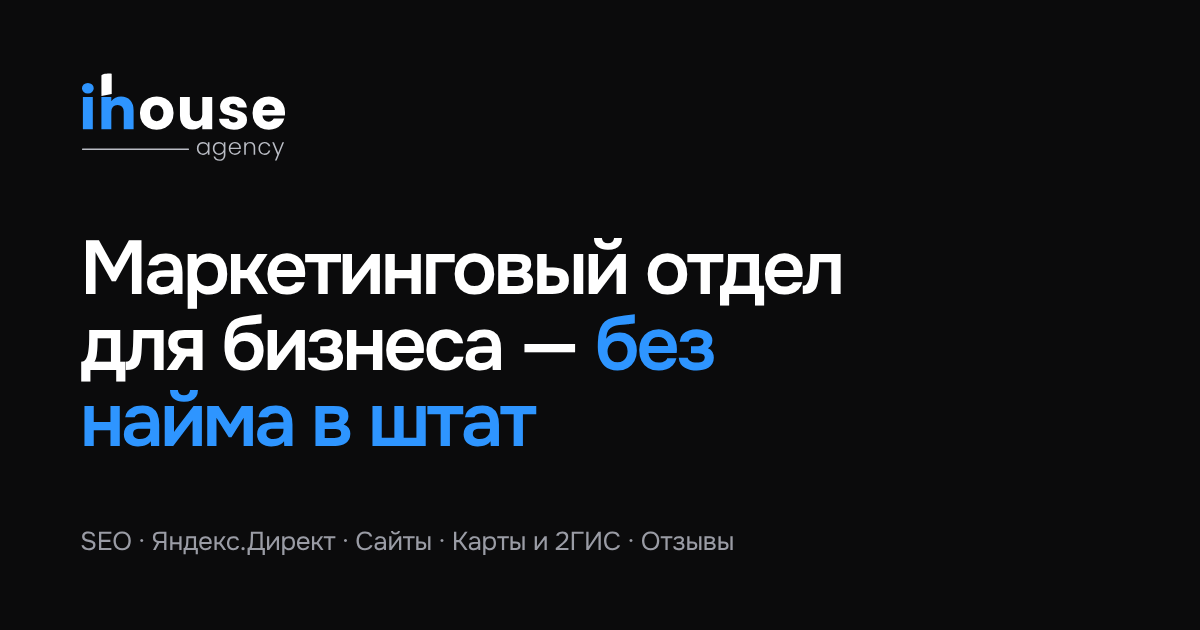
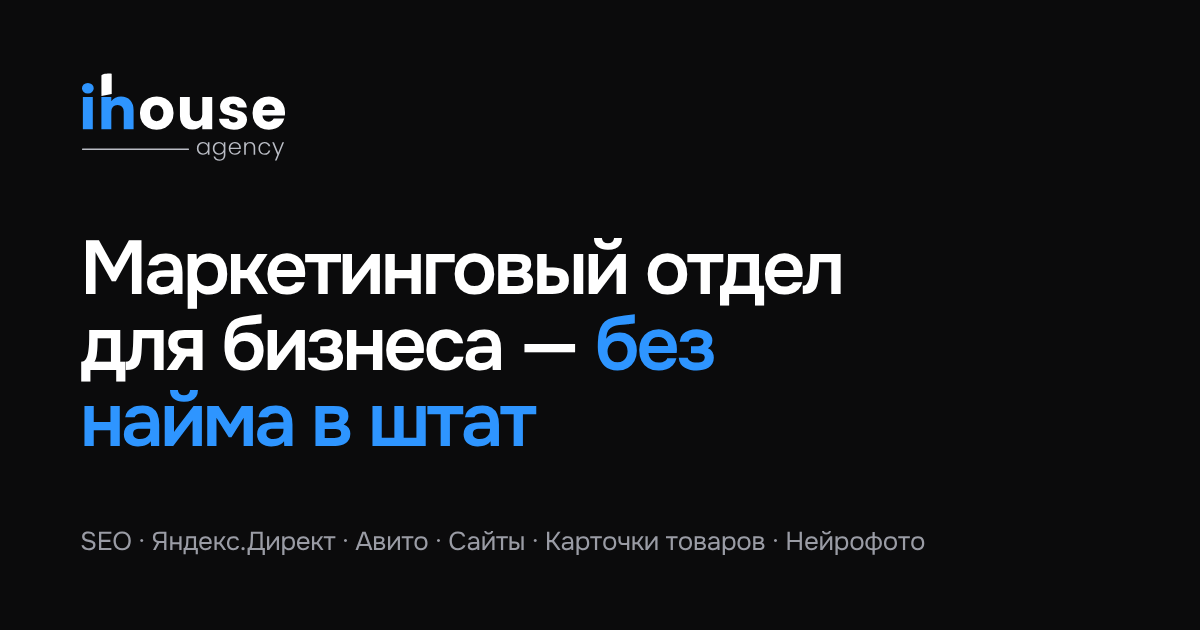
Новые услуги: ведение Авито, нейрофотосессии и карточки для маркетплейсов
Два блока в «Услугах», два вопроса в FAQ, пункты в бегущей строке,
форме, форматах и подвале; обновлены title, description, JSON-LD и OG.

Claude-Session: https://claude.ai/code/session_01WQKR9du931HH478xemhD7M

Changed region(s): [[0.2775, 0.8444, 0.7708, 0.8746]]

diff --git a/index.html b/index.html
@@ -3,15 +3,15 @@
 <head>
 <meta charset="utf-8">
 <meta name="viewport" content="width=device-width, initial-scale=1, viewport-fit=cover">
-<title>inhouse agency — продвижение бизнеса: SEO, Яндекс.Директ, сайты | Набережные Челны</title>
-<meta name="description" content="Маркетинговый отдел для вашего бизнеса без найма в штат: SEO в Яндексе и Google, Яндекс.Директ, сайты на Tilda и на коде, Яндекс.Карты и 2ГИС, таргет ВКонтакте, работа с отзывами. Набережные Челны и вся Россия.">
+<title>inhouse agency — SEO, Яндекс.Директ, Авито и сайты | Набережные Челны</title>
+<meta name="description" content="Маркетинговый отдел без найма в штат: SEO, Яндекс.Директ, ведение Авито, сайты, карточки для маркетплейсов и нейрофотосессии. Набережные Челны и вся Россия.">
 <link rel="canonical" href="https://inhouseagency.ru/">
 <meta name="theme-color" content="#F2F2EF">
 <meta property="og:type" content="website">
 <meta property="og:locale" content="ru_RU">
 <meta property="og:site_name" content="inhouse agency">
 <meta property="og:title" content="inhouse agency — маркетинговый отдел без найма в штат">
-<meta property="og:description" content="SEO, Яндекс.Директ, сайты, карты и отзывы — в одних руках. Отвечаем за заявки, а не за отчёты.">
+<meta property="og:description" content="SEO, Директ, Авито, сайты и карточки товаров — в одних руках. Отвечаем за заявки, а не за отчёты.">
 <meta property="og:url" content="https://inhouseagency.ru/">
 <meta property="og:image" content="https://inhouseagency.ru/assets/img/og.png">
 <meta name="twitter:card" content="summary_large_image">
@@ -32,7 +32,7 @@
   "email": "info@inhouseagency.ru",
   "address": {"@type": "PostalAddress", "addressLocality": "Набережные Челны", "addressRegion": "Республика Татарстан", "addressCountry": "RU"},
   "areaServed": {"@type": "Country", "name": "Россия"},
-  "description": "SEO-продвижение, контекстная реклама в Яндекс.Директ, разработка сайтов, геомаркетинг, таргет ВКонтакте и работа с отзывами."
+  "description": "SEO-продвижение, контекстная реклама в Яндекс.Директ, ведение Авито, разработка сайтов, карточки товаров для маркетплейсов и нейрофотосессии, геомаркетинг, таргет ВКонтакте и работа с отзывами."
 }
 </script>
 <!-- Яндекс.Метрика: вставь сюда код счётчика, а его номер — в CONFIG.metrikaId в assets/js/main.js -->
@@ -83,7 +83,7 @@
       <div class="hero__text">
         <p class="chip reveal"><span class="chip__dot"></span>Набережные Челны · вся Россия</p>
         <h1 class="hero__title reveal">Маркетинговый отдел для&nbsp;вашего бизнеса — <span class="accent">без&nbsp;найма в&nbsp;штат</span></h1>
-        <p class="hero__lead reveal">Сайт, SEO, Яндекс.Директ, карты и&nbsp;отзывы ведём в&nbsp;одних руках. Отвечаем за&nbsp;заявки, а&nbsp;не&nbsp;за&nbsp;красивые отчёты.</p>
+        <p class="hero__lead reveal">Сайт, SEO, Яндекс.Директ, Авито, карты и&nbsp;отзывы ведём в&nbsp;одних руках. Отвечаем за&nbsp;заявки, а&nbsp;не&nbsp;за&nbsp;красивые отчёты.</p>
         <div class="hero__actions reveal">
           <a class="btn btn--dark" href="#contacts">Получить план продвижения <span class="btn__ico" aria-hidden="true"><svg viewBox="0 0 24 24"><path d="M7 17 17 7M9 7h8v8"/></svg></span></a>
           <a class="btn btn--ghost" href="https://t.me/Anthon_Ovdin" target="_blank" rel="noopener" data-goal="click_telegram">Написать в Telegram</a>
@@ -110,8 +110,8 @@
 
     <div class="ticker" aria-label="Направления работы">
       <div class="ticker__track">
-        <span>/ SEO в Яндексе и Google</span><span>/ Яндекс.Директ</span><span>/ Сайты на Tilda и на коде</span><span>/ Яндекс.Карты и 2ГИС</span><span>/ Таргет ВКонтакте</span><span>/ Работа с отзывами</span><span>/ Парсинг товаров и цен</span>
-        <span aria-hidden="true">/ SEO в Яндексе и Google</span><span aria-hidden="true">/ Яндекс.Директ</span><span aria-hidden="true">/ Сайты на Tilda и на коде</span><span aria-hidden="true">/ Яндекс.Карты и 2ГИС</span><span aria-hidden="true">/ Таргет ВКонтакте</span><span aria-hidden="true">/ Работа с отзывами</span><span aria-hidden="true">/ Парсинг товаров и цен</span>
+        <span>/ SEO в Яндексе и Google</span><span>/ Яндекс.Директ</span><span>/ Сайты на Tilda и на коде</span><span>/ Ведение Авито</span><span>/ Карточки для маркетплейсов</span><span>/ Нейрофотосессии</span><span>/ Яндекс.Карты и 2ГИС</span><span>/ Таргет ВКонтакте</span><span>/ Работа с отзывами</span><span>/ Парсинг товаров и цен</span>
+        <span aria-hidden="true">/ SEO в Яндексе и Google</span><span aria-hidden="true">/ Яндекс.Директ</span><span aria-hidden="true">/ Сайты на Tilda и на коде</span><span aria-hidden="true">/ Ведение Авито</span><span aria-hidden="true">/ Карточки для маркетплейсов</span><span aria-hidden="true">/ Нейрофотосессии</span><span aria-hidden="true">/ Яндекс.Карты и 2ГИС</span><span aria-hidden="true">/ Таргет ВКонтакте</span><span aria-hidden="true">/ Работа с отзывами</span><span aria-hidden="true">/ Парсинг товаров и цен</span>
       </div>
     </div>
   </section>
@@ -128,7 +128,7 @@
         </div>
         <ul class="facts">
           <li class="reveal"><b>1</b><span>подрядчик вместо трёх-четырёх</span></li>
-          <li class="reveal"><b>7</b><span>направлений&nbsp;— от&nbsp;сайта до&nbsp;отзывов</span></li>
+          <li class="reveal"><b>9</b><span>направлений&nbsp;— от&nbsp;сайта до&nbsp;Авито и&nbsp;карточек товаров</span></li>
           <li class="reveal"><b>1</b><span>отчёт в&nbsp;месяц&nbsp;— по&nbsp;заявкам, а&nbsp;не&nbsp;по&nbsp;кликам</span></li>
         </ul>
       </div>
@@ -177,6 +177,14 @@
         </li>
         <li class="svc__row reveal">
           <span class="svc__num">05</span>
+          <h3 class="svc__title">Ведение Авито</h3>
+          <div class="svc__body">
+            <p>Делаем Авито рабочим каналом продаж для&nbsp;товаров и&nbsp;услуг. Пишем объявления, по&nbsp;которым звонят, настраиваем платное продвижение и&nbsp;следим, чтобы бюджет уходил на&nbsp;обращения, а&nbsp;не&nbsp;на&nbsp;пустые просмотры. Каждый месяц&nbsp;— отчёт: сколько пришло контактов, во&nbsp;что обошёлся каждый и&nbsp;что меняем дальше.</p>
+            <ul class="tags"><li>Продающие объявления</li><li>Платное продвижение</li><li>Аналитика</li><li>Отчёт каждый месяц</li></ul>
+          </div>
+        </li>
+        <li class="svc__row reveal">
+          <span class="svc__num">06</span>
           <h3 class="svc__title">Таргет ВКонтакте</h3>
           <div class="svc__body">
             <p>VK&nbsp;Реклама с&nbsp;точной аудиторией: по&nbsp;интересам, районам, подписчикам конкурентов. Креативы и&nbsp;лид-формы&nbsp;— наши.</p>
@@ -184,7 +192,15 @@
           </div>
         </li>
         <li class="svc__row reveal">
-          <span class="svc__num">06</span>
+          <span class="svc__num">07</span>
+          <h3 class="svc__title">Нейрофотосессии и&nbsp;карточки товаров</h3>
+          <div class="svc__body">
+            <p>Фотосессия без&nbsp;студии, фотографа и&nbsp;моделей: нейросеть помещает ваш товар&nbsp;— или вас&nbsp;— в&nbsp;любую обстановку, от&nbsp;светлой студии до&nbsp;новогоднего интерьера. Делаем карточки для&nbsp;Wildberries, Ozon и&nbsp;Яндекс Маркета, которые выделяются в&nbsp;выдаче и&nbsp;отвечают на&nbsp;вопросы покупателя ещё до&nbsp;клика. И&nbsp;оформляем товар под&nbsp;любую цель: креативы для&nbsp;рекламы, баннеры, сайт и&nbsp;соцсети.</p>
+            <ul class="tags"><li>Нейрофотосессии</li><li>Карточки WB и&nbsp;Ozon</li><li>Инфографика</li><li>Дизайн под&nbsp;задачу</li></ul>
+          </div>
+        </li>
+        <li class="svc__row reveal">
+          <span class="svc__num">08</span>
           <h3 class="svc__title">Работа с&nbsp;отзывами</h3>
           <div class="svc__body">
             <p>Отвечаем на&nbsp;отзывы на&nbsp;картах и&nbsp;площадках живым языком, без&nbsp;шаблонных «Спасибо за&nbsp;обращение». Аккуратно разбираем негатив, чтобы он&nbsp;работал на&nbsp;репутацию.</p>
@@ -192,7 +208,7 @@
           </div>
         </li>
         <li class="svc__row reveal">
-          <span class="svc__num">07</span>
+          <span class="svc__num">09</span>
           <h3 class="svc__title">Парсинг товаров и&nbsp;цен</h3>
           <div class="svc__body">
             <p>Соберём каталог поставщиков или конкурентов с&nbsp;фото и&nbsp;характеристиками, объединим источники в&nbsp;один каталог и&nbsp;подготовим выгрузку для&nbsp;1С или сайта.</p>
@@ -219,6 +235,7 @@
             <li>Сайт или лендинг</li>
             <li>Настройка Яндекс.Директ</li>
             <li>SEO-аудит с&nbsp;планом правок</li>
+            <li>Нейрофотосессия и&nbsp;карточки товаров</li>
             <li>Оформление карточки на&nbsp;картах</li>
           </ul>
           <p class="card__note">Фиксированная цена и&nbsp;срок&nbsp;— после брифа</p>
@@ -229,7 +246,7 @@
           <p class="card__text">Мы&nbsp;становимся вашим маркетинговым отделом. Каждый месяц ведём всё, что приводит клиентов.</p>
           <ul class="ticks">
             <li>Стратегия и&nbsp;план на&nbsp;месяц</li>
-            <li>Директ, SEO, карты, ВКонтакте</li>
+            <li>Директ, SEO, Авито, карты, ВКонтакте</li>
             <li>Доработки сайта и&nbsp;ответы на&nbsp;отзывы</li>
             <li>Отчёт по&nbsp;заявкам, а&nbsp;не&nbsp;по&nbsp;кликам</li>
           </ul>
@@ -309,6 +326,14 @@
             <summary><span class="acc__num">06</span>Работаете только в&nbsp;Набережных Челнах?<i aria-hidden="true"></i></summary>
             <div class="acc__body"><p>Нет, работаем с&nbsp;клиентами по&nbsp;всей России удалённо. Если вы&nbsp;в&nbsp;Челнах&nbsp;— можем встретиться лично.</p></div>
           </details>
+          <details class="acc__it reveal">
+            <summary><span class="acc__num">07</span>Авито подходит для&nbsp;услуг или только для&nbsp;товаров?<i aria-hidden="true"></i></summary>
+            <div class="acc__body"><p>И&nbsp;для&nbsp;того, и&nbsp;для&nbsp;другого. На&nbsp;Авито ищут мастеров, ремонт, перевозки, обучение, услуги для&nbsp;бизнеса&nbsp;— и&nbsp;часто готовы заказать сразу. Важно выбрать правильную категорию, написать объявление под&nbsp;запросы покупателей и&nbsp;не&nbsp;тратить бюджет на&nbsp;продвижение там, где нет спроса.</p></div>
+          </details>
+          <details class="acc__it reveal">
+            <summary><span class="acc__num">08</span>Как проходит нейрофотосессия?<i aria-hidden="true"></i></summary>
+            <div class="acc__body"><p>Вы&nbsp;присылаете несколько фото товара&nbsp;— или свои, если нужна портретная съёмка. Нейросеть переносит их&nbsp;в&nbsp;нужную обстановку: студия, интерьер, улица, сезонный сюжет. Затем вручную проверяем детали, чтобы товар остался собой: форма, цвет, логотип. Выходит быстрее и&nbsp;дешевле классической съёмки, а&nbsp;фон можно сменить под&nbsp;любой сезон или акцию.</p></div>
+          </details>
         </div>
       </div>
     </div>
@@ -341,8 +366,10 @@
             <label><input type="checkbox" name="need" value="SEO"><span>SEO</span></label>
             <label><input type="checkbox" name="need" value="Яндекс.Директ"><span>Яндекс.Директ</span></label>
             <label><input type="checkbox" name="need" value="Сайт"><span>Сайт</span></label>
+            <label><input type="checkbox" name="need" value="Авито"><span>Авито</span></label>
             <label><input type="checkbox" name="need" value="Карты и 2ГИС"><span>Карты и&nbsp;2ГИС</span></label>
             <label><input type="checkbox" name="need" value="ВКонтакте"><span>ВКонтакте</span></label>
+            <label><input type="checkbox" name="need" value="Карточки и нейрофото"><span>Карточки и&nbsp;нейрофото</span></label>
             <label><input type="checkbox" name="need" value="Отзывы"><span>Отзывы</span></label>
             <label><input type="checkbox" name="need" value="Сопровождение"><span>Всё сразу</span></label>
           </div>
@@ -365,7 +392,7 @@
       <a class="footer__logo" href="#top"><img src="assets/img/logo-light.svg" alt="inhouse agency" width="150" height="67" loading="lazy"></a>
       <nav class="footer__col" aria-label="Услуги">
         <p>Услуги</p>
-        <a href="#services">SEO-продвижение</a><a href="#services">Яндекс.Директ</a><a href="#services">Разработка сайтов</a><a href="#services">Карты и&nbsp;2ГИС</a>
+        <a href="#services">SEO-продвижение</a><a href="#services">Яндекс.Директ</a><a href="#services">Разработка сайтов</a><a href="#services">Ведение Авито</a><a href="#services">Карточки и&nbsp;нейрофото</a><a href="#services">Карты и&nbsp;2ГИС</a>
       </nav>
       <nav class="footer__col" aria-label="Разделы">
         <p>Разделы</p>

diff --git a/assets/css/style.css b/assets/css/style.css
@@ -215,7 +215,7 @@ button, input, textarea { font: inherit; color: inherit; }
 
 /* Ticker */
 .ticker { margin-top: clamp(56px, 8vw, 110px); border-top: 1px solid var(--line); border-bottom: 1px solid var(--line); overflow: hidden; padding: 22px 0; }
-.ticker__track { display: flex; width: max-content; gap: 48px; animation: ticker 40s linear infinite; }
+.ticker__track { display: flex; width: max-content; gap: 48px; animation: ticker 56s linear infinite; }
 .ticker__track span { font-size: clamp(18px, 2vw, 24px); font-weight: 500; letter-spacing: -.02em; white-space: nowrap; color: var(--ink-2); }
 @keyframes ticker { to { transform: translateX(calc(-50% - 24px)); } }
 .ticker:hover .ticker__track { animation-play-state: paused; }
